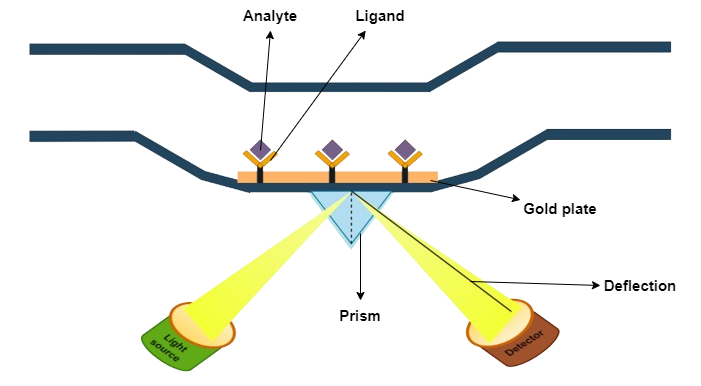
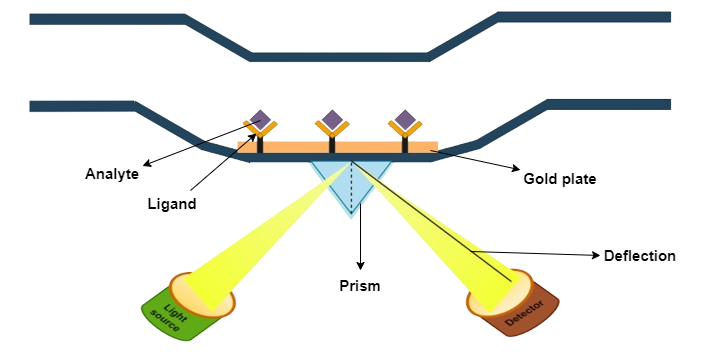
spr simulation

diff --git a/experiment/simulation/js/main.js b/experiment/simulation/js/main.js
@@ -139,7 +139,7 @@ else{
 
 /*******************************************************  Sample prep  EDC NHS**********************************************************************************/
 function prepedcnhs(){
-  window.scrollBy(0, 900);
+  //window.scrollBy(0, 900);
   if ((document.getElementById("chk1").checked) && (document.getElementById("chk2").checked)){
     document.getElementById("edcnhs").style.display = "block";
     document.getElementById("stp4a").style.display = "block";
@@ -165,7 +165,7 @@ function prepedcnhs(){
 
 /*******************************************************  Sample prep ligand sodium **********************************************************************************/
 function sampleprep() {
-  window.scrollBy(0, 900);
+ // window.scrollBy(0, 900);
   if ( (document.getElementById("chk3").checked) && (document.getElementById("chk4").checked)) {
    
     document.getElementById("sampletube").style.display = "block";
@@ -193,7 +193,7 @@ function sampleprep() {
 
 
 function ethacheckbox(){
-  window.scrollBy(0, 900);
+ // window.scrollBy(0, 900);
   if ((document.getElementById("chk5").checked) ){
     
     document.getElementById("etha").style.display = "block";
@@ -293,10 +293,10 @@ function sampletrayinsert() {
   sampletray.style.top = 85 + '%';
   sampletray.style.left = 23.8 + '%';
   sampletube.style.top = 87 + '%';
-  sampletube.style.left = 25.8 + '%';
+  sampletube.style.left = 30.5 + '%';
 
   sampletubeedc.style.top = 87 + '%';
-  sampletubeedc.style.left = 30.5 + '%';
+  sampletubeedc.style.left = 25.8 + '%';
 
   sampletubeetha.style.top = 87 + '%';
   sampletubeetha.style.left = 35.2 + '%';

diff --git a/experiment/procedure.md b/experiment/procedure.md
@@ -10,12 +10,12 @@
 
 4.  Ligand Immobilization
 <div align="center">
-<img src="images/spr_labeled_1.png" class="img-fluid">
+<img src="images/spr1.png" class="img-fluid">
 </div>
 
 5. Interaction Analysis
 <div align="center">
-<img src="images/spr_labeled_2.png" class="img-fluid">
+<img src="images/spr2.png" class="img-fluid">
 </div>
 
 
